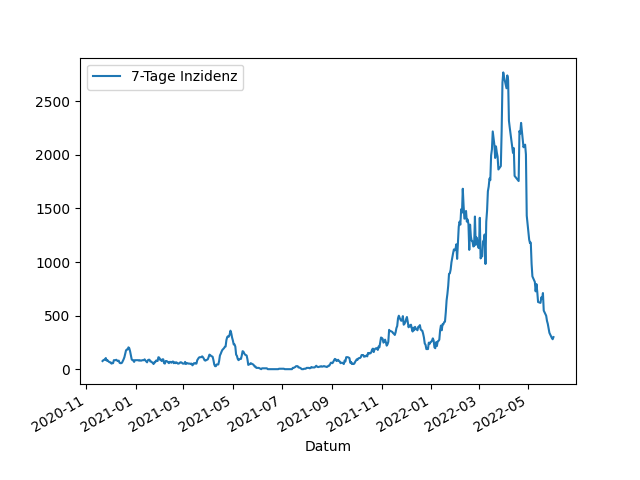
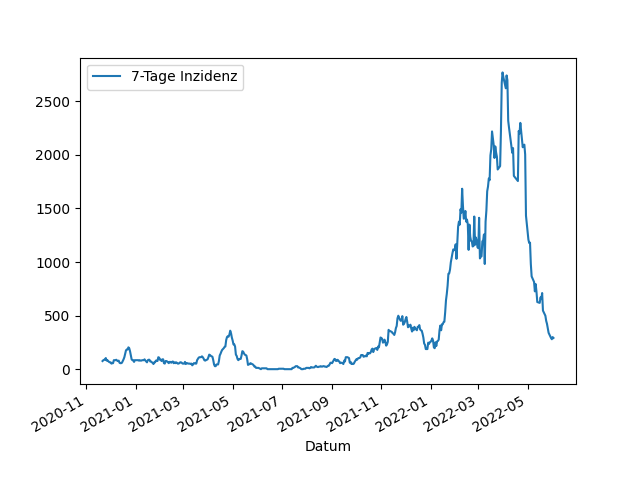
Update images

diff --git a/_includes/aktuelle_inzidenz.md b/_includes/aktuelle_inzidenz.md
@@ -1,1 +1,1 @@
-299,4
+291,4
